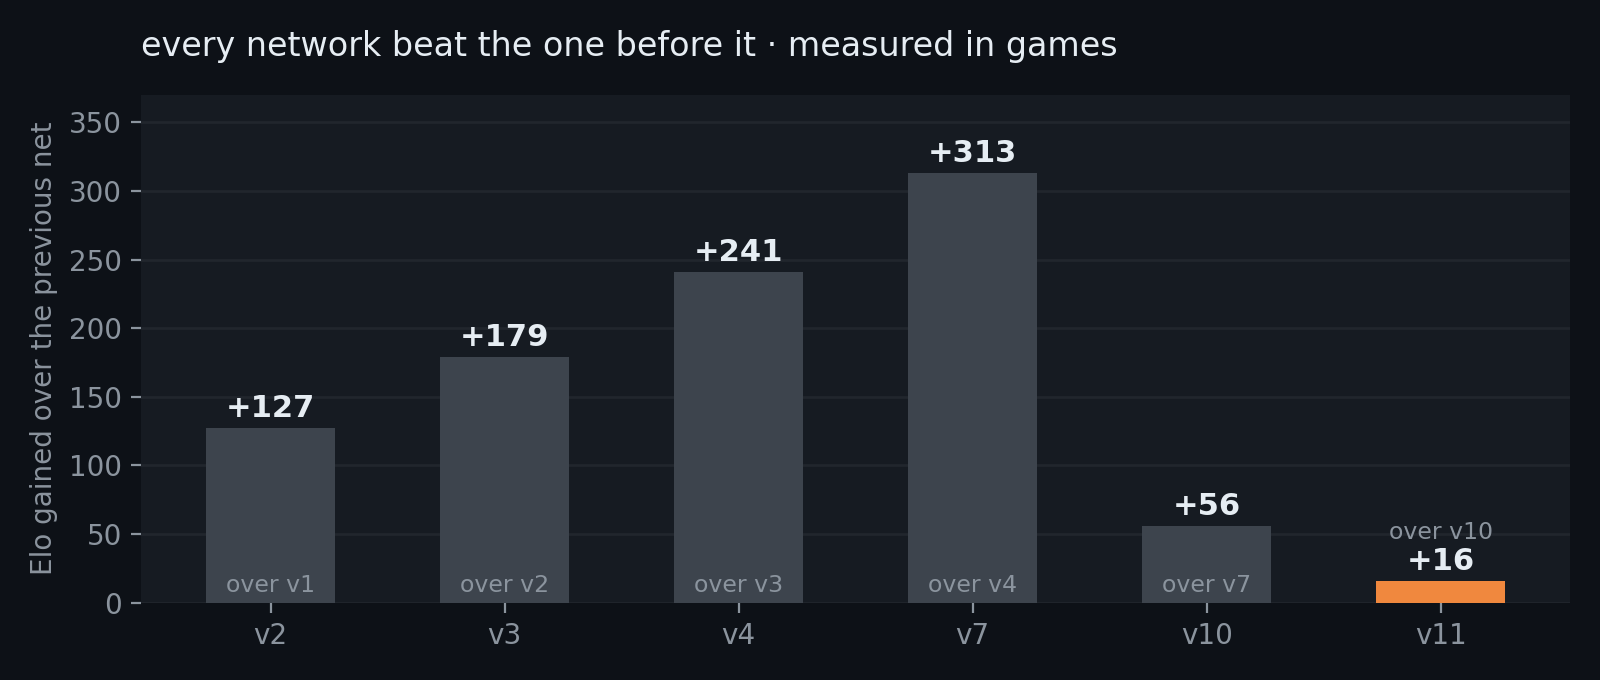
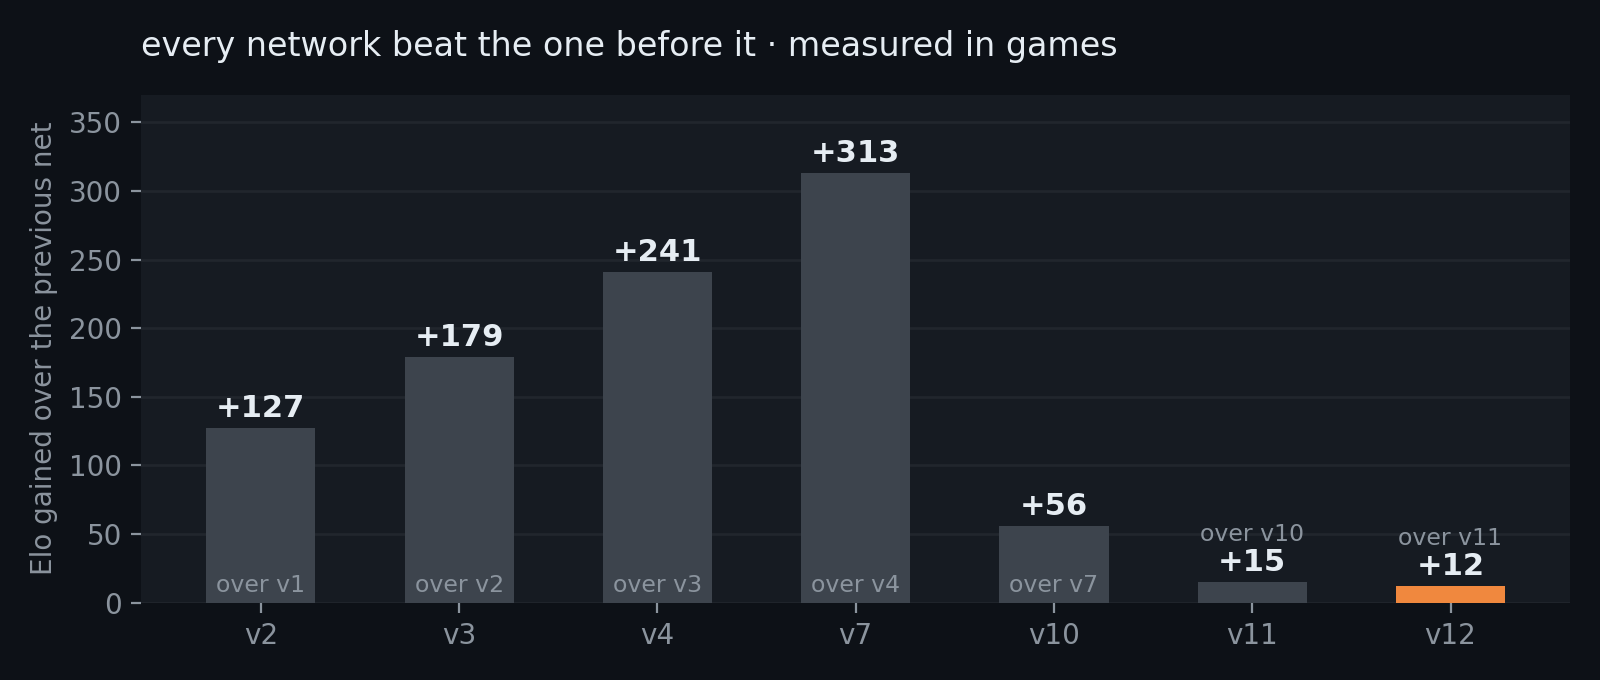
v12: trained on 34M clean positions
v12 beat v11 by +12.17 +/- 10.16 over 800 games -- the interval clears
zero, so this is a real gain rather than another inconclusive one.

What made the difference was data volume, and the progression says so
clearly. The same experiment, run at five scales of clean-label
self-play:

  969k   0.00 +/- 16.69
  2M    +7.38 +/- 10.37
  7.6M  +6.52 +/- 11.63
  34M  +12.17 +/- 10.16   <- clears zero

Everything below about 10M was indistinguishable from noise. The
corrected loss objective and the fixed outcome labels were worth
something after all; there simply was not enough clean data for the
network to learn from them until now.

Site updated: v12 in the table and the progress chart, human record
corrected to 61-2 (from 400 games across 14 distinct human opponents).

Also caps the rate-limit counter. A wedged process reached 638
consecutive strikes over 35 hours, and every poke during a penalty
window renews it; ten strikes now back off for an hour instead.

Claude-Session: https://claude.ai/code/session_01TL4qPH3YnnWx7kaMG3oLDo

diff --git a/docs/index.html b/docs/index.html
@@ -4,22 +4,22 @@
 <meta charset="utf-8">
 <meta name="viewport" content="width=device-width, initial-scale=1">
 <title>Khatib</title>
-<meta name="description" content="A chess engine written from scratch in Rust with an NNUE neural network. Beats Leela on tactics; 56-2 against human players on Lichess.">
+<meta name="description" content="A chess engine written from scratch in Rust with an NNUE neural network. Beats Leela on tactics; 61-2 against human players on Lichess.">
 
 <!-- Open Graph: what Discord, Slack and iMessage render for the link. -->
 <meta property="og:type" content="website">
 <meta property="og:site_name" content="Khatib">
 <meta property="og:title" content="Khatib — a chess engine in Rust">
-<meta property="og:description" content="Custom NNUE neural network trained on 95M Stockfish-evaluated positions. Outscores Leela on a 55-position tactics suite and is 56-2 against human players. Play it on Lichess.">
+<meta property="og:description" content="Custom NNUE neural network trained on 95M Stockfish-evaluated positions. Outscores Leela on a 55-position tactics suite and is 61-2 against human players. Play it on Lichess.">
 <meta property="og:url" content="https://nesbesss.github.io/khatib-chess/">
 <meta property="og:image" content="https://nesbesss.github.io/khatib-chess/img/social.png?v=45b9fb67">
 <meta property="og:image:width" content="1200">
 <meta property="og:image:height" content="630">
-<meta property="og:image:alt" content="Khatib: 56-2 vs humans, 95M training positions, 163M moves per second">
+<meta property="og:image:alt" content="Khatib: 61-2 vs humans, 95M training positions, 163M moves per second">
 
 <meta name="twitter:card" content="summary_large_image">
 <meta name="twitter:title" content="Khatib — a chess engine in Rust">
-<meta name="twitter:description" content="Custom NNUE neural network trained on 95M Stockfish-evaluated positions. Outscores Leela on tactics, 56-2 vs humans.">
+<meta name="twitter:description" content="Custom NNUE neural network trained on 95M Stockfish-evaluated positions. Outscores Leela on tactics, 61-2 vs humans.">
 <meta name="twitter:image" content="https://nesbesss.github.io/khatib-chess/img/social.png?v=45b9fb67">
 
 <!-- Discord tints the embed's left border with this. -->
@@ -155,7 +155,7 @@
   <p class="by">By Nassim Khatib</p>
 
   <div class="stats">
-    <div class="stat"><b>56&ndash;2</b><span>vs human players</span></div>
+    <div class="stat"><b>61&ndash;2</b><span>vs human players</span></div>
     <div class="stat"><b>&frac12;&ndash;&frac12;</b><span>vs Stockfish 18</span></div>
     <div class="stat"><b>163M</b><span>Moves / second</span></div>
   </div>
@@ -165,12 +165,12 @@
     Fifty-five tactical positions, one second each, all three engines on the
     same machine.
   </p>
-  <img class="chart" src="img/benchmark.png?v=5f971080"
+  <img class="chart" src="img/benchmark.png?v=c40f64e6"
        alt="Stockfish 40 of 55, Khatib 34 of 55, Leela 24 of 55">
   <table>
     <tr><th>Engine</th><th class="n">Solved</th><th class="n">Avg depth</th></tr>
     <tr><td>Stockfish 18</td><td class="n">40 / 55</td><td class="n">46.9</td></tr>
-    <tr class="me"><td>Khatib v11</td><td class="n">34 / 55</td><td class="n">11.8</td></tr>
+    <tr class="me"><td>Khatib v12</td><td class="n">34 / 55</td><td class="n">11.8</td></tr>
     <tr><td>Leela (lc0)</td><td class="n">24 / 55</td><td class="n">3.8</td></tr>
   </table>
   <p class="note">
@@ -185,9 +185,10 @@
   <p>
     A network ships only after beating the one before it over hundreds of
     games. <b>v10</b> won by <b>+56 &plusmn; 14 Elo</b> across 800 games;
-    <b>v11</b> beat it by <b>+15 &plusmn; 11 Elo</b> across 560 games.
+    <b>v11</b> beat it by <b>+15 &plusmn; 11 Elo</b> across 560 games, and
+    <b>v12</b> beat v11 by <b>+12 &plusmn; 10 Elo</b> across 800.
   </p>
-  <img class="chart" src="img/progress.png?v=bea408c3"
+  <img class="chart" src="img/progress.png?v=b329112d"
        alt="Elo gained by each network version, rising from 60 to 313">
   <p class="note">
     Four attempts to beat v7 failed first, at &minus;266 to &minus;308 Elo

diff --git a/scripts/lichess_bot.py b/scripts/lichess_bot.py
@@ -392,7 +392,16 @@ class Bot:
                         # Escalate, then go fully quiet for 30 min so a stuck
                         # challenge penalty can expire instead of being kept
                         # alive by repeated pokes.
-                        wait = 1800 if self._rl >= 5 else 60 * self._rl
+                        #
+                        # The counter used to climb without bound -- a wedged
+                        # process reached 638 strikes over 35 hours, and every
+                        # poke during a penalty window renews it. Cap the
+                        # count so the log stays readable, and after enough
+                        # consecutive strikes stop challenging for an hour:
+                        # something is wrong that more requests cannot fix.
+                        self._rl = min(self._rl, 12)
+                        wait = 3600 if self._rl >= 10 else (
+                               1800 if self._rl >= 5 else 60 * self._rl)
                         print(f"rate limited (x{self._rl}); challenges paused {wait}s")
                         time.sleep(wait)
                         break

diff --git a/scripts/make_charts.py b/scripts/make_charts.py
@@ -22,7 +22,7 @@ def _style(ax, fig):
 
 
 def tactics(path="docs/img/benchmark.png"):
-    names = ["Stockfish 18", "Khatib v11", "Leela (lc0)"]
+    names = ["Stockfish 18", "Khatib v12", "Leela (lc0)"]
     vals = [72.7, 61.8, 43.6]
     raw = ["40/55", "34/55", "24/55"]
     colors = [DIM, ACCENT, DIM]
@@ -52,9 +52,10 @@ def progress(path="docs/img/progress.png"):
     Bars, not a line: these are independent steps, and a line makes a smaller
     step look like a regression when every bar is in fact a win.
     """
-    labels = ["v2", "v3", "v4", "v7", "v10", "v11"]
-    elo = [127, 179, 241, 313, 56, 16]
-    note = ["over v1", "over v2", "over v3", "over v4", "over v7", "over v10"]
+    labels = ["v2", "v3", "v4", "v7", "v10", "v11", "v12"]
+    elo = [127, 179, 241, 313, 56, 15, 12]
+    note = ["over v1", "over v2", "over v3", "over v4", "over v7", "over v10",
+            "over v11"]
 
     fig, ax = plt.subplots(figsize=(8, 3.4), dpi=200)
     _style(ax, fig)
